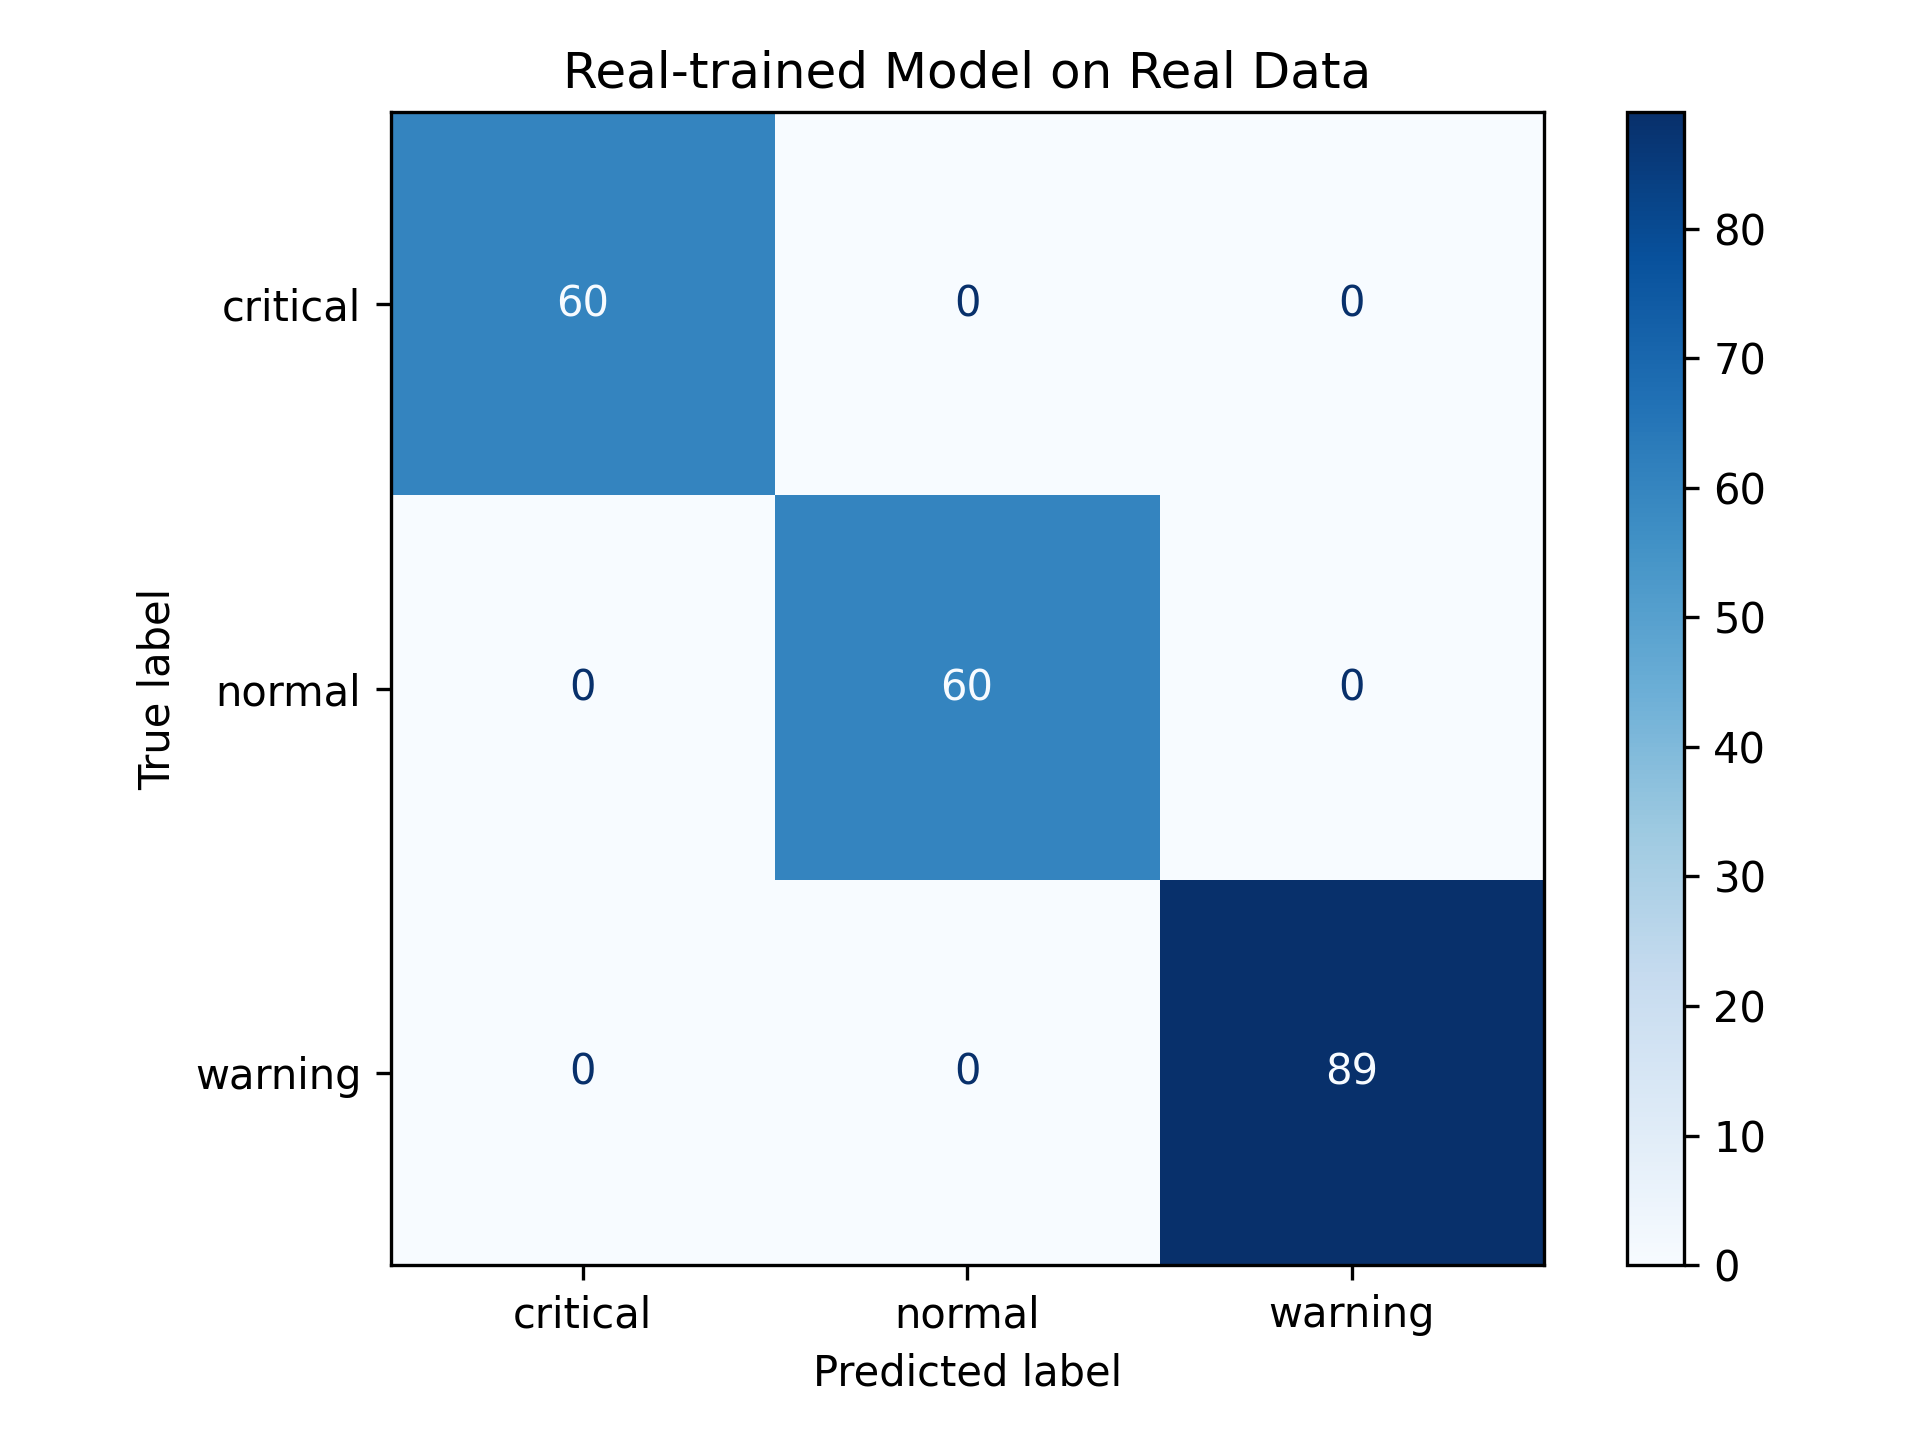
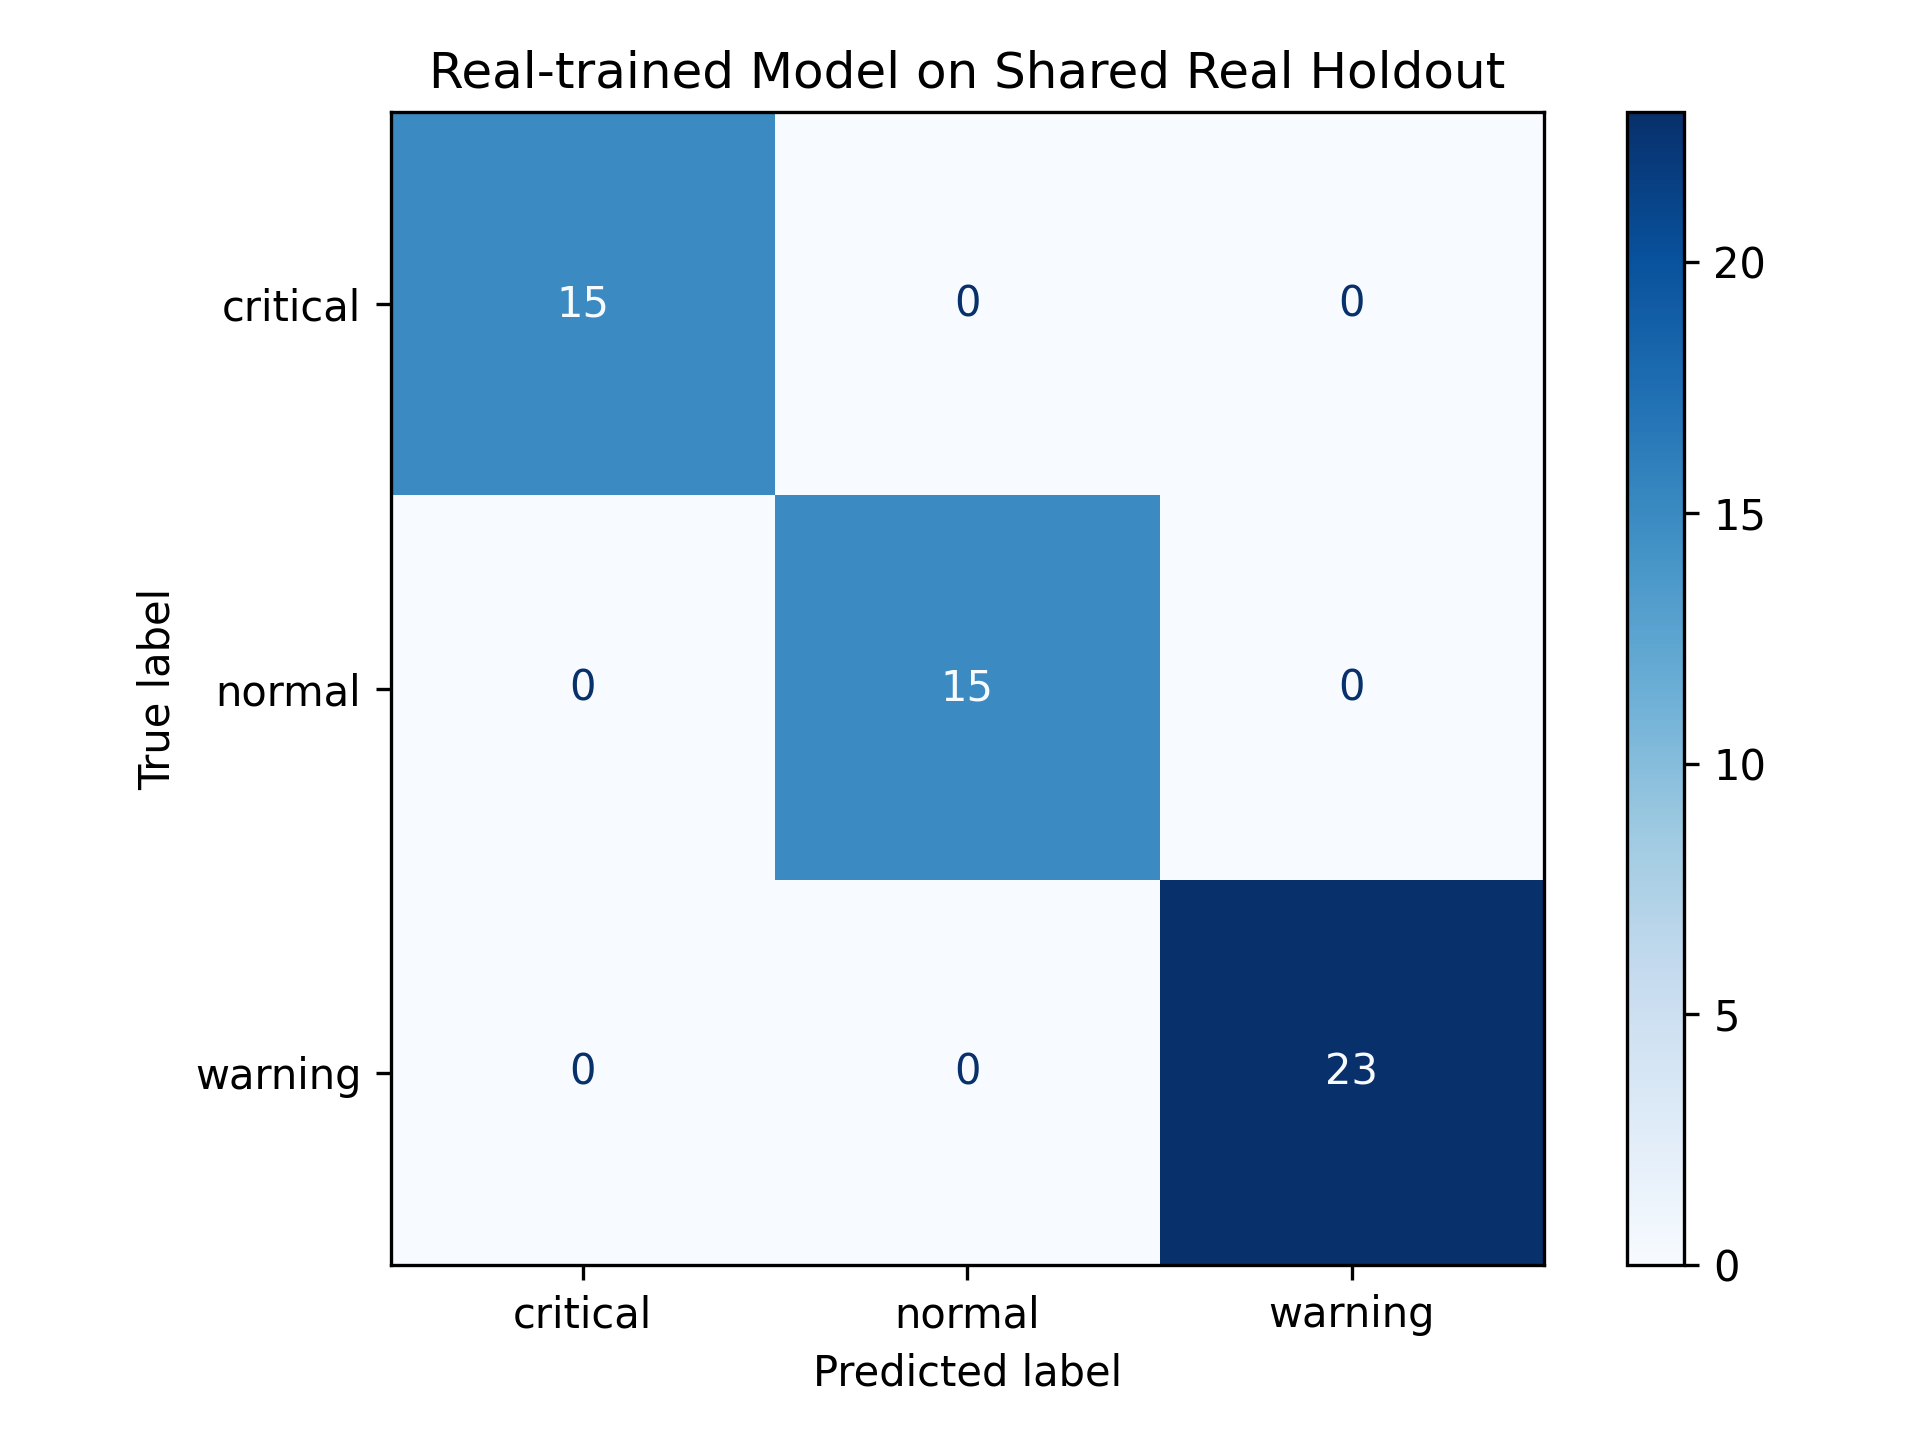
eval: compare models on shared real holdout

diff --git a/ml/compare_synthetic_real_models.py b/ml/compare_synthetic_real_models.py
@@ -1,10 +1,10 @@
-
 import os
 import joblib
 import pandas as pd
 import matplotlib.pyplot as plt
 
 from sklearn.metrics import accuracy_score, classification_report, ConfusionMatrixDisplay
+from sklearn.model_selection import train_test_split
 
 
 REAL_DATA_PATH = "data/real_labeled_sensor_data.csv"
@@ -35,6 +35,9 @@ FEATURE_COLUMNS = [
 
 LABEL_COLUMN = "label"
 
+TEST_SIZE = 0.25
+RANDOM_STATE = 42
+
 
 def load_real_data():
     if not os.path.exists(REAL_DATA_PATH):
@@ -44,6 +47,21 @@ def load_real_data():
         )
 
     return pd.read_csv(REAL_DATA_PATH)
+
+
+def create_real_holdout(df):
+    X = df[FEATURE_COLUMNS]
+    y = df[LABEL_COLUMN]
+
+    _, X_test, _, y_test = train_test_split(
+        X,
+        y,
+        test_size=TEST_SIZE,
+        random_state=RANDOM_STATE,
+        stratify=y,
+    )
+
+    return X_test, y_test
 
 
 def load_model(path):
@@ -61,7 +79,8 @@ def evaluate_model(model, X, y, model_name):
     print("=" * 70)
     print(model_name)
     print("=" * 70)
-    print(f"Accuracy on real dataset: {accuracy:.4f}")
+    print(f"Shared real holdout samples: {len(y)}")
+    print(f"Accuracy: {accuracy:.4f}")
     print()
     print("Classification Report:")
     print(classification_report(y, y_pred, zero_division=0))
@@ -88,56 +107,54 @@ def save_confusion_matrix(y_true, y_pred, title, output_path):
 
 def compare_models():
     df = load_real_data()
-
-    X_real = df[FEATURE_COLUMNS]
-    y_real = df[LABEL_COLUMN]
+    X_test, y_test = create_real_holdout(df)
 
     synthetic_model = load_model(SYNTHETIC_MODEL_PATH)
     real_model = load_model(REAL_MODEL_PATH)
 
     synthetic_pred, synthetic_accuracy = evaluate_model(
         synthetic_model,
-        X_real,
-        y_real,
-        "Synthetic-trained Decision Tree evaluated on real data",
+        X_test,
+        y_test,
+        "Synthetic-trained Decision Tree on shared real holdout",
     )
 
     real_pred, real_accuracy = evaluate_model(
         real_model,
-        X_real,
-        y_real,
-        "Real-trained Decision Tree evaluated on real data",
+        X_test,
+        y_test,
+        "Real-trained Decision Tree on shared real holdout",
     )
 
     save_confusion_matrix(
-        y_real,
+        y_test,
         synthetic_pred,
-        "Synthetic-trained Model on Real Data",
+        "Synthetic-trained Model on Shared Real Holdout",
         SYNTHETIC_ON_REAL_CM_PATH,
     )
 
     save_confusion_matrix(
-        y_real,
+        y_test,
         real_pred,
-        "Real-trained Model on Real Data",
+        "Real-trained Model on Shared Real Holdout",
         REAL_ON_REAL_CM_PATH,
     )
 
     print()
     print("Summary")
     print("-------")
-    print(f"Synthetic-trained model on real data: {synthetic_accuracy:.4f}")
-    print(f"Real-trained model on real data:      {real_accuracy:.4f}")
+    print(f"Evaluation samples:                       {len(y_test)}")
+    print(f"Synthetic-trained model on real holdout: {synthetic_accuracy:.4f}")
+    print(f"Real-trained model on real holdout:      {real_accuracy:.4f}")
 
     if synthetic_accuracy < real_accuracy:
         print()
         print(
-            "The real-trained model performs better on the collected real dataset. "
-            "This suggests that the synthetic data distribution does not fully match "
-            "the real sensor scenarios."
+            "The real-trained model performs better on the shared real holdout. "
+            "This indicates that the synthetic data distribution does not fully "
+            "match the collected real sensor scenarios."
         )
 
 
 if __name__ == "__main__":
     compare_models()
-
